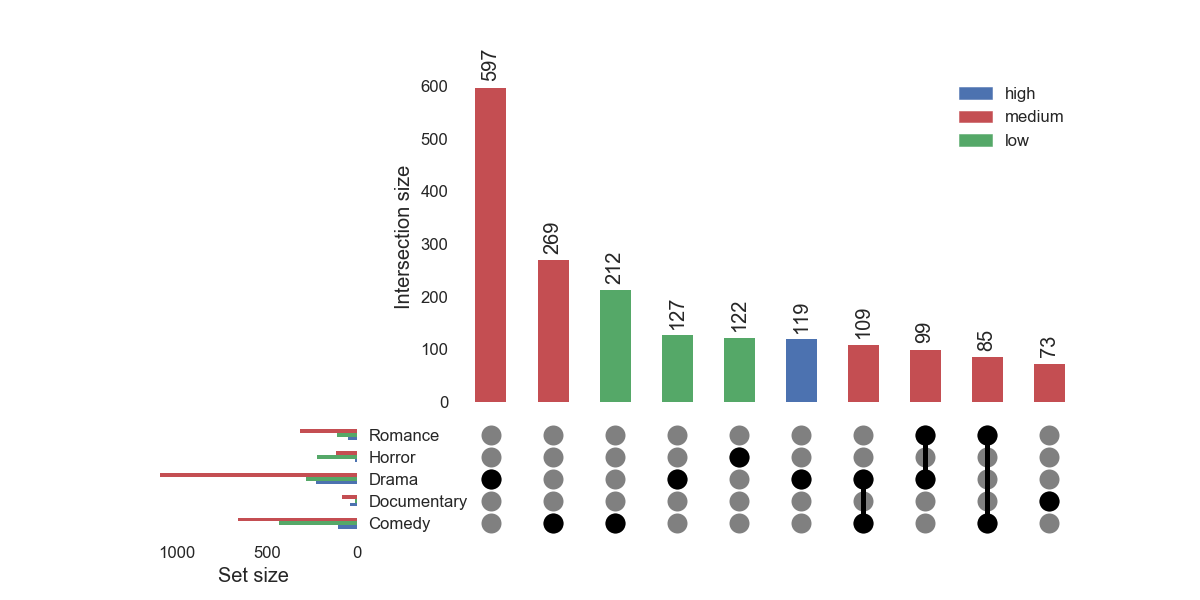
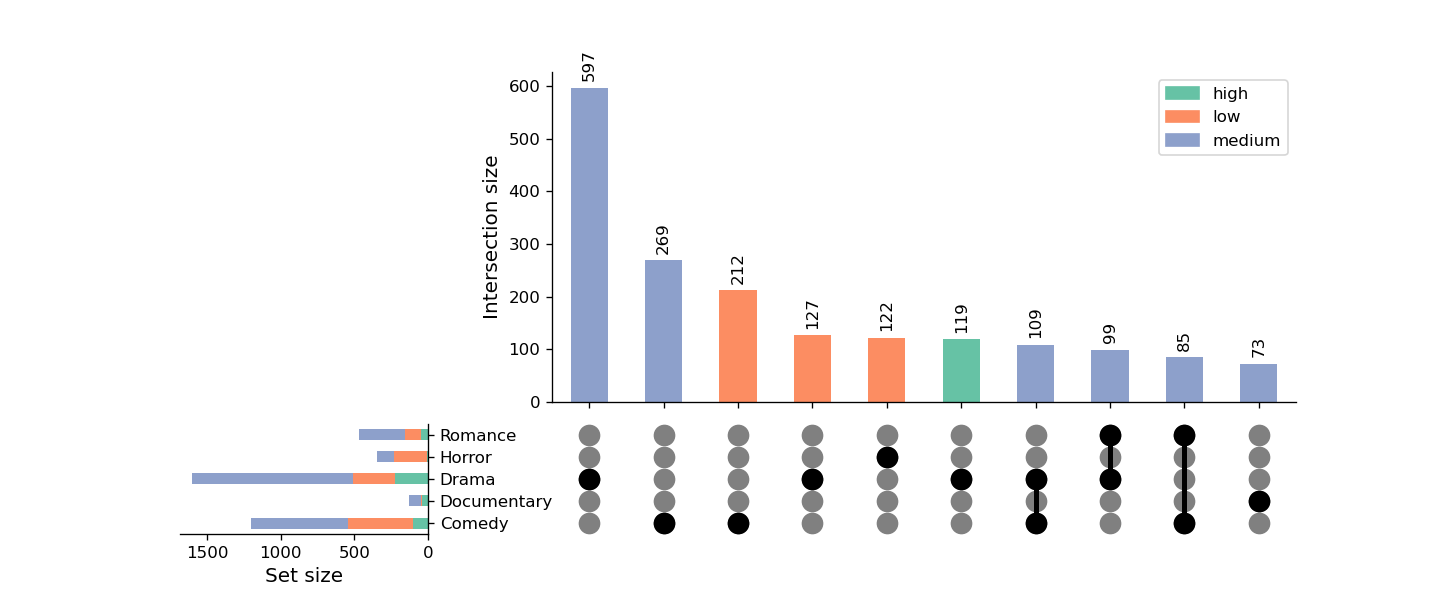
Update readme

diff --git a/README.md b/README.md
@@ -1,5 +1,5 @@
 # Seahorse
-  
+
 ### Simple wrapper to produce graphs using python
 
 Use both matplotlib, pandas, seaborn and custom graphical functions into the same library.
@@ -29,36 +29,55 @@ python setup.py install --user
 
 ### Examples
 
-**Custom container** :
+**Custom container with unique functions** :
 
 ```python3
-
-from seahorse import gwrap
 from seahorse import SContainer
+from seahorse import sns
 
-df = gwrap.sns.load_dataset("tips")
-sc = SContainer(df, 1, 2)
+df = sns.load_dataset("tips")
+sc = SContainer(df, 1, 3)
 
-sc.graph(0).sns.barplot("sex", "tip")
-sc.graph(0).set_labels("Sex", "Tip")
+graph = sc.graph(0)
+graph.sns.scatterplot(x="total_bill", y="tip", color="black")
+graph.share_ax_lim()
 
-sc.graph(1).shs.colored_regplot("total_bill", "tip", fit_reg=False, hue="sex")
-sc.graph(1).set_labels("Total bill", "")
+sdf = df.groupby(['sex', 'smoker'])['total_bill'].mean().reset_index()
+graph = sc.graph(1, sdf)
+graph.sns.barplot(x="sex", y="total_bill", hue='smoker', linewidth=1, edgecolor='black')
+graph.barplot_add_value(asint=True)
+graph.change_bars_width(.35)
+graph.ax.set_ylim((0, 25))
+graph.remove_legend()
+
+graph = sc.graph(2)
+graph.sns.boxplot(x="day", y="tip", hue='smoker')
+graph.change_boxplot_width(.9)
+graph.add_xticks_ncount('day')
+graph.make_annot(x="day", y="tip", hue="smoker", verbose=0, comparisons_correction="Bonferroni")
+graph.legend_outside(title='Smoker?')
+
+sc.set_size_inches(12, 4)
+sc.tight_layout()
 ```
 
-![Example image](https://github.com/jsgounot/Seahorse/blob/master/Examples/scontainer.png)
+![Example image](https://github.com/jsgounot/Seahorse/blob/master/Examples/graphfun.png)
 
 **Groupby Container** :
 
 ```python3
+from seahorse import SContainer
+from seahorse import sns
 
-from seahorse import gwrap, SContainer
-
-df = gwrap.sns.load_dataset("tips")
+df = sns.load_dataset("tips")
 sc = SContainer(df, 2, 2)
+
 sc.groupby("day").sns.regplot("total_bill", "tip", color="black", scatter_kws={'s' : 8})
 sc.set_labels("Total bill", "Tip")
 sc.share_axes()
+
+sc.set_size_inches(6, 6)
+sc.tight_layout()
 ```
 
 ![Example image](https://github.com/jsgounot/Seahorse/blob/master/Examples/scontainer_gb.png)
@@ -66,9 +85,8 @@ sc.share_axes()
 **PyUpset** :
 
 ```python3
-
 import pandas as pd
-from seahorse import PyUpsetHue
+from seahorse import PyUpsetHue, sns
 
 fname = "https://raw.githubusercontent.com/hms-dbmi/UpSetR/master/inst/extdata/movies.csv"
 df = pd.read_csv(fname, sep=";", header=0)
@@ -78,6 +96,7 @@ df = df[[column for column in df.columns if column not in ["Watches", "ReleaseDa
 df = pd.melt(df, id_vars=["Name", "AvgRating"], var_name="Kind", value_name="Found")
 df = df[df["Found"] == 1].drop("Found", axis=1)
 df["AvgRating"] = df["AvgRating"] // 1
+df = df.sort_values('AvgRating')
 
 def categorise_rates(rate) :
 	if rate < 3 : return "low"
@@ -87,9 +106,13 @@ def categorise_rates(rate) :
 # Apply rates for hue column
 df["AvgRating"] = df["AvgRating"].apply(categorise_rates)
 
+palette = sns.color_palette("Set2")
+
 # Plot the data
-graph = PyUpsetHue(df, key="Name", value="Kind", hue="AvgRating", griddots=True, spacers=(.1, .25))
-graph.set_size(1200, 600)
+graph = PyUpsetHue(df, key="Name", value="Kind", hue="AvgRating", 
+	griddots=True, spacers=(.1, .25), palette=palette)
+
+graph.set_size_inches(12, 5)
 ```
 
 ![Example image](https://github.com/jsgounot/Seahorse/blob/master/Examples/upset.png)
